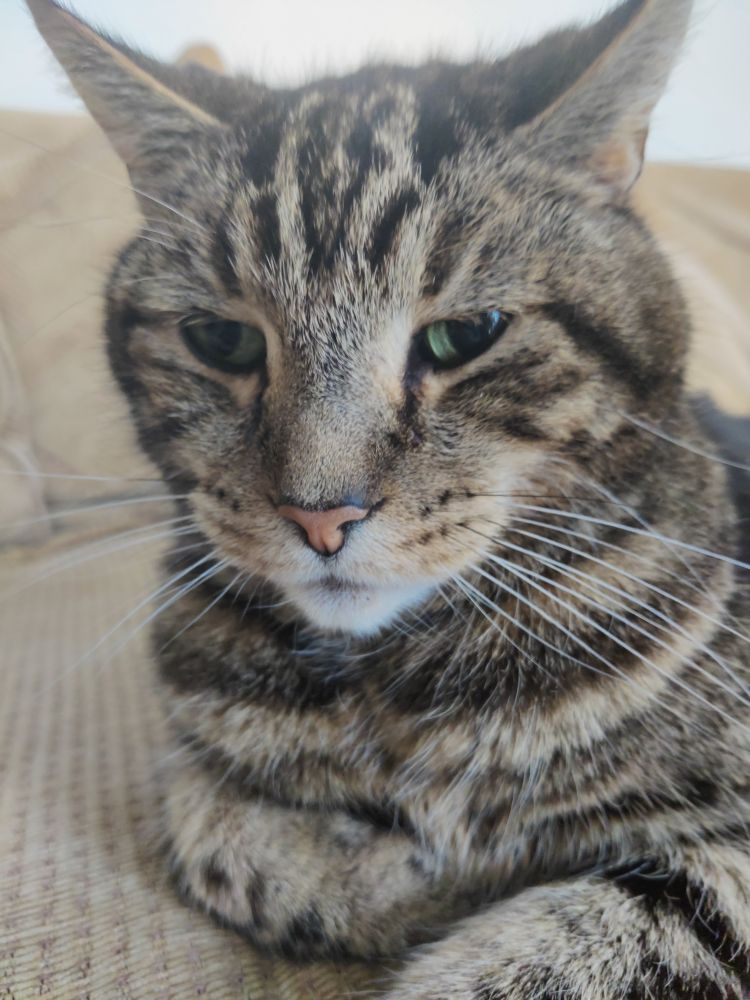
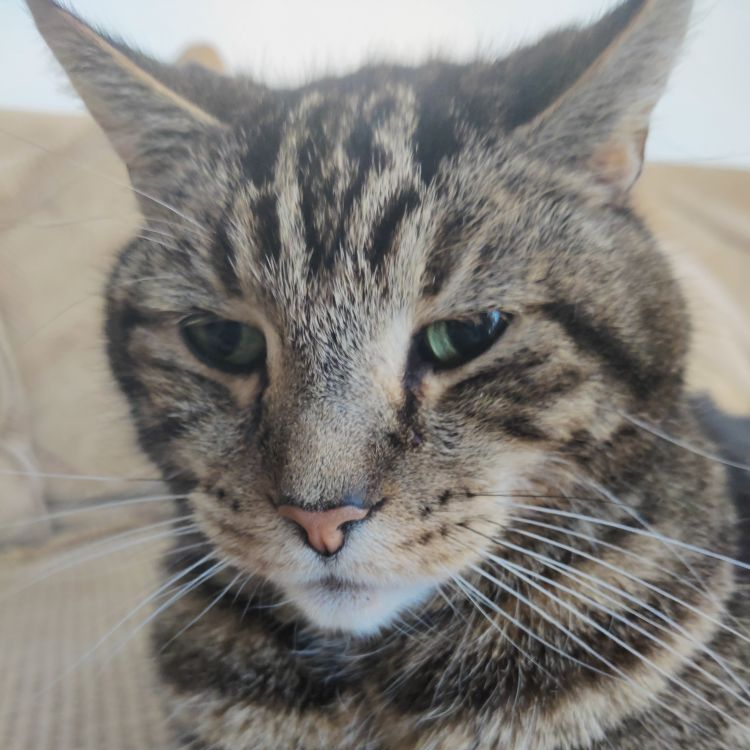
Updated pfp

diff --git a/projects/jwgpc.html b/projects/jwgpc.html
@@ -2,7 +2,7 @@
     <link rel="stylesheet" href="../css/stylesheet.css">
     <meta name="viewport" content="width=device-width, initial-scale=1">
     <link href="https://fonts.googleapis.com/icon?family=Material+Icons" rel="stylesheet">
-    <link rel="icon" href="../img/jwg.png">
+    <link rel="icon" href="../pfp.png">
 
     <title> James Gardiner </title>
 
@@ -22,7 +22,7 @@
     <p align="center"> JWG-Computers is a WIP website, that i'm working on to sell computers, based around being sustainable (No OEM parts, all off the shelf, meaning you don't need to buy a whole PC, and reducing E-Waste) this does come at a slight cost increase; but the cost is rather low stil, and manages to beat some manufacturers. Currently it's unfinished and isn't public. The aim is to be public and shipping to the UK by the end of next month (Somewhere June - July 2022 likely) but this is subject to change. </p>
     <div class="center text">
         <h2 class="title" align="center"> Links: </h2>
-        <p> Currently Unavailable</p>
+        <p><a href="https://jwgcomputers.com"> The site </a></p>
     </div>
     </body>
 </html>

diff --git a/projects/site.html b/projects/site.html
@@ -2,7 +2,7 @@
     <link rel="stylesheet" href="../css/stylesheet.css">
     <meta name="viewport" content="width=device-width, initial-scale=1">
     <link href="https://fonts.googleapis.com/icon?family=Material+Icons" rel="stylesheet">
-    <link rel="icon" href="img/jwg.png">
+    <link rel="icon" href="../pfp.png">
 
     <title> James Gardiner </title>
     <head>

diff --git a/projects.html b/projects.html
@@ -2,7 +2,7 @@
 	<link rel="stylesheet" href="css/stylesheet.css">
 	<meta name="viewport" content="width=device-width, initial-scale=1">
 	<link href="https://fonts.googleapis.com/icon?family=Material+Icons" rel="stylesheet">
-	<link rel="icon" href="img/jwg.png">
+	<link rel="icon" href="pfp.png">
 	
 	<title> James Gardiner: Projects </title>
 	

diff --git a/index.html b/index.html
@@ -2,7 +2,7 @@
 	<link rel="stylesheet" href="css/stylesheet.css">
 	<meta name="viewport" content="width=device-width, initial-scale=1">
 	<link href="https://fonts.googleapis.com/icon?family=Material+Icons" rel="stylesheet">
-	<link rel="icon" href="img/jwg.png">
+	<link rel="icon" href="pfp.png">
 		
 	<title> James Gardiner </title>
 	
